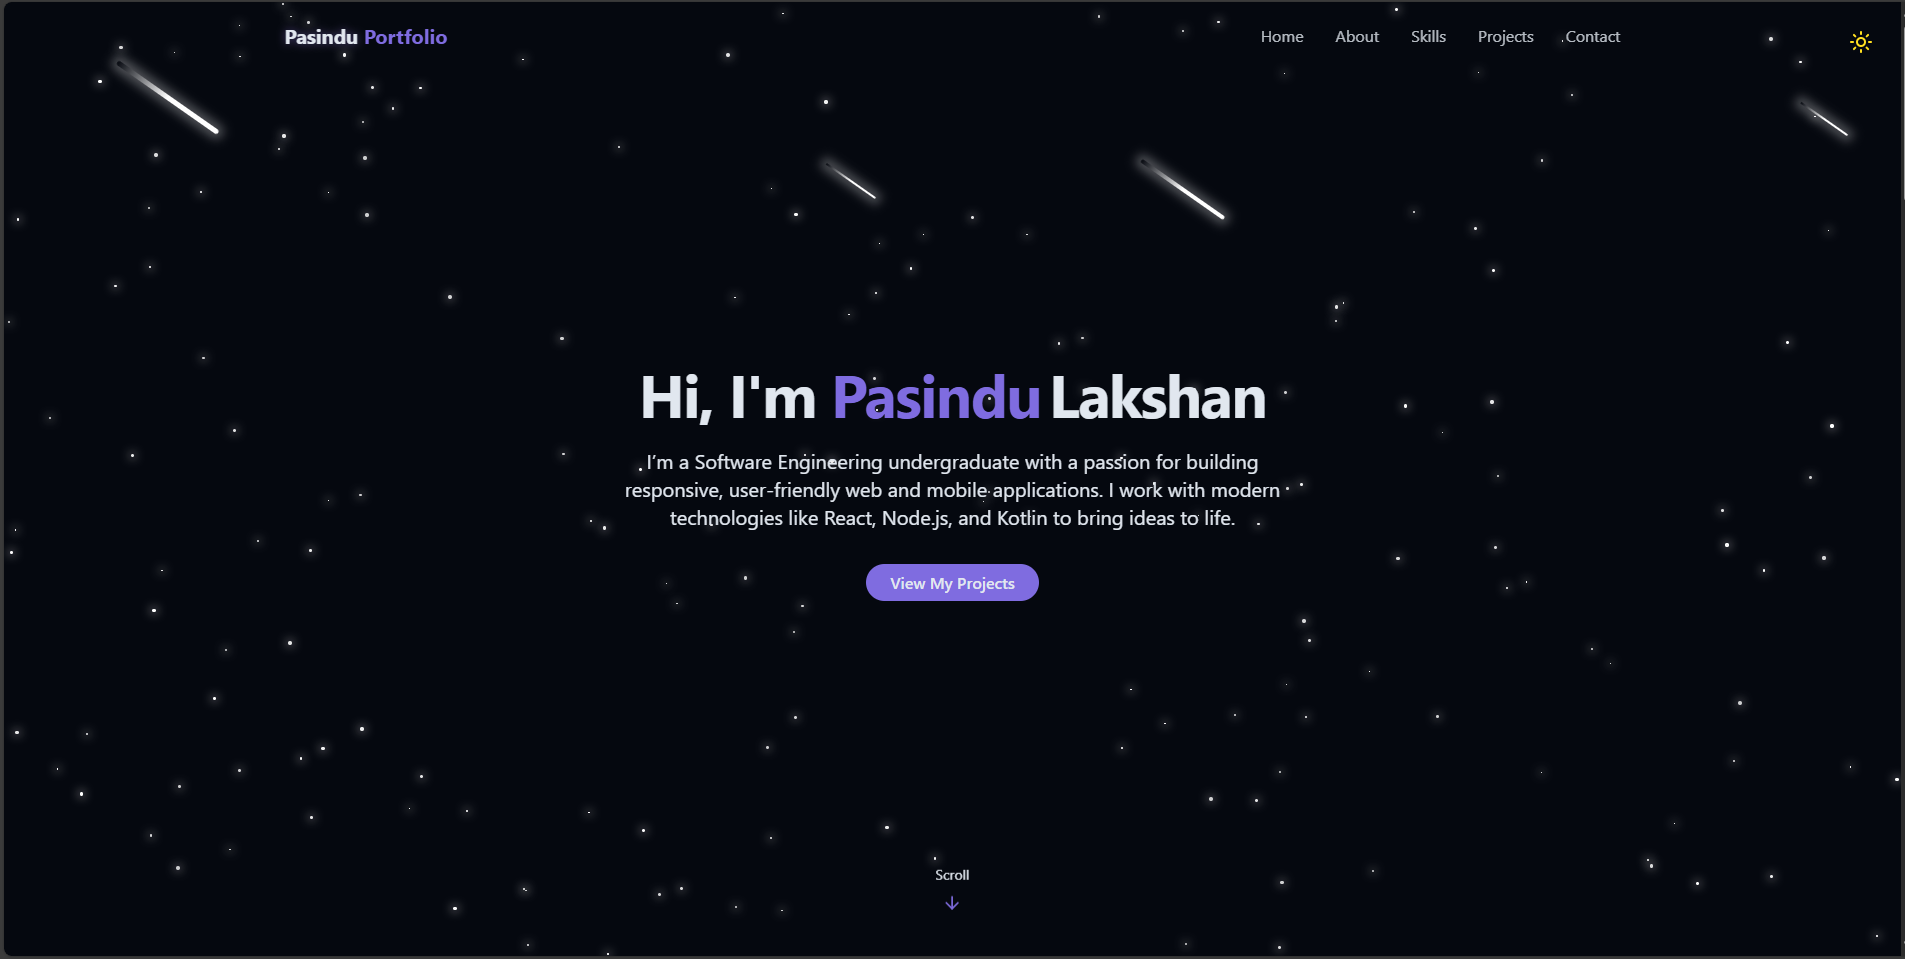
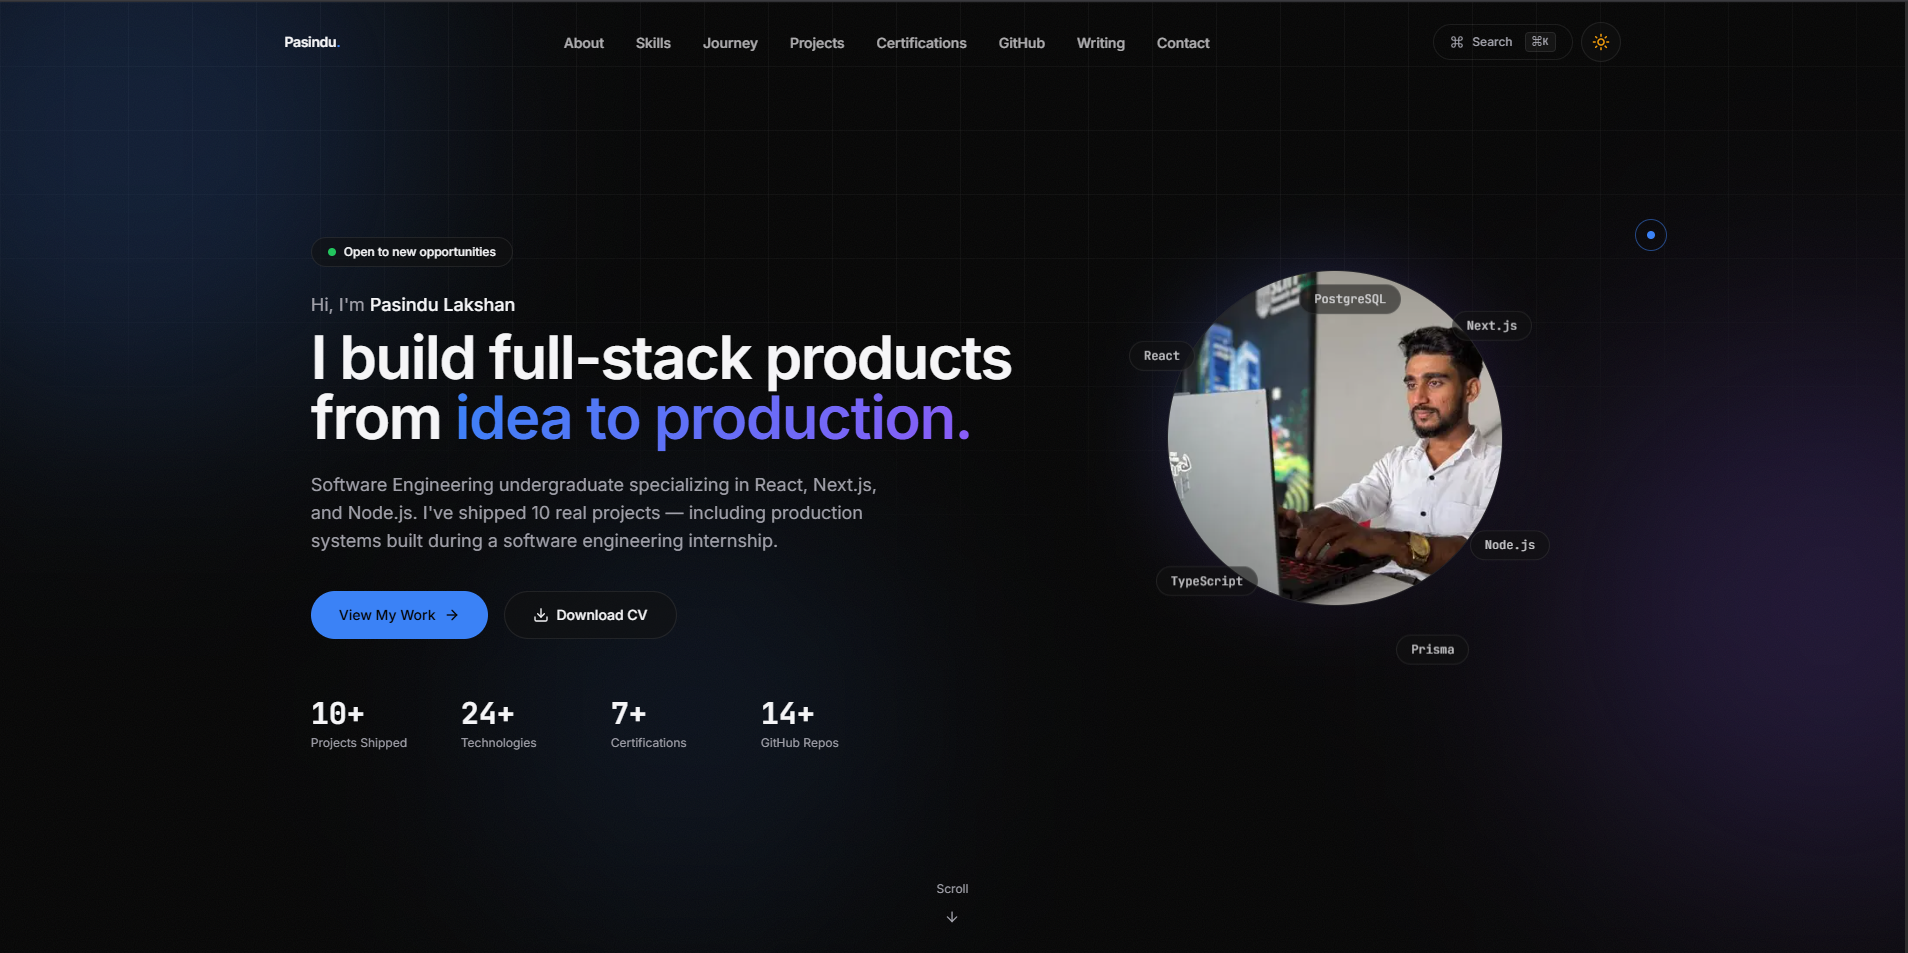
feat: add new project 'Beauty P&C E-Commerce & POS System' with detailed description and images; update existing project image paths

diff --git a/src/data/projects.ts b/src/data/projects.ts
@@ -1,4 +1,4 @@
-import { Factory, ListChecks, ShoppingCart, Users } from "lucide-react";
+import { Factory, ListChecks, ShoppingCart, Store, Users } from "lucide-react";
 import type { Project } from "@/types";
 
 export const projects: Project[] = [
@@ -233,8 +233,8 @@ export const projects: Project[] = [
       "An enterprise resource planning system built for Panda Plastic Pvt Ltd during a software engineering internship, streamlining inventory, production, and order management workflows.",
     tags: ["React", "Node.js", "Express", "PostgreSQL", "Prisma", "Tailwind CSS"],
     image: {
-      src: "/projects/panda-plastic-erp.png",
-      real: false,
+      src: "/projects/erp.png",
+      real: true,
       placeholderIcon: Factory,
       placeholderCaption: "Live client deployment — screenshot pending",
     },
@@ -289,6 +289,42 @@ export const projects: Project[] = [
       ],
       results:
         "Delivered as a working internal tool during a 6-month software engineering internship at Sensus Hub Services.",
+    },
+  },
+  {
+    id: 11,
+    slug: "beauty-pc-ecommerce-pos",
+    title: "Beauty P&C — E-Commerce & POS System",
+    description:
+      "A full-stack e-commerce, admin, POS, inventory, and financial-management system for Beauty P&C, a cosmetics retailer — letting the business run both its online store and physical shop from a single system.",
+    tags: ["MERN", "React", "Node.js", "Express.js", "MongoDB"],
+    image: {
+      src: "/projects/bpc.png",
+      real: true,
+      placeholderIcon: Store,
+      placeholderCaption: "Live client deployment — screenshot pending",
+    },
+    demoUrl: "https://beautypc.vercel.app/",
+    githubUrl: "https://github.com/PasinduLF/BPC_E-Commerce",
+    featured: true,
+    hasCaseStudy: true,
+    caseStudy: {
+      problem:
+        "Beauty P&C, a cosmetics retailer, needed to run both an online store and a physical shop without the online catalog, stock counts, and financial records drifting out of sync with what's happening at the till in-store.",
+      solution:
+        "A unified full-stack platform covering the customer-facing e-commerce store, an admin dashboard, a point-of-sale system for in-shop transactions, inventory management, and financial/reporting tools — all backed by the same data so stock and sales stay consistent across both channels.",
+      architecture:
+        "MERN stack: a React frontend for the storefront and admin/POS interfaces, a Node.js/Express REST API, and MongoDB as the shared data store across the online store, POS, inventory, and financial modules.",
+      features: [
+        "Customer-facing e-commerce storefront",
+        "Admin dashboard",
+        "Point-of-sale (POS) system for in-store transactions",
+        "Inventory management shared across online and physical stock",
+        "Financial and sales reporting",
+        "Unified data layer across the online store and physical shop",
+      ],
+      results:
+        "Deployed and live for Beauty P&C, a real cosmetics retailer, at beautypc.vercel.app.",
     },
   },
 ];
